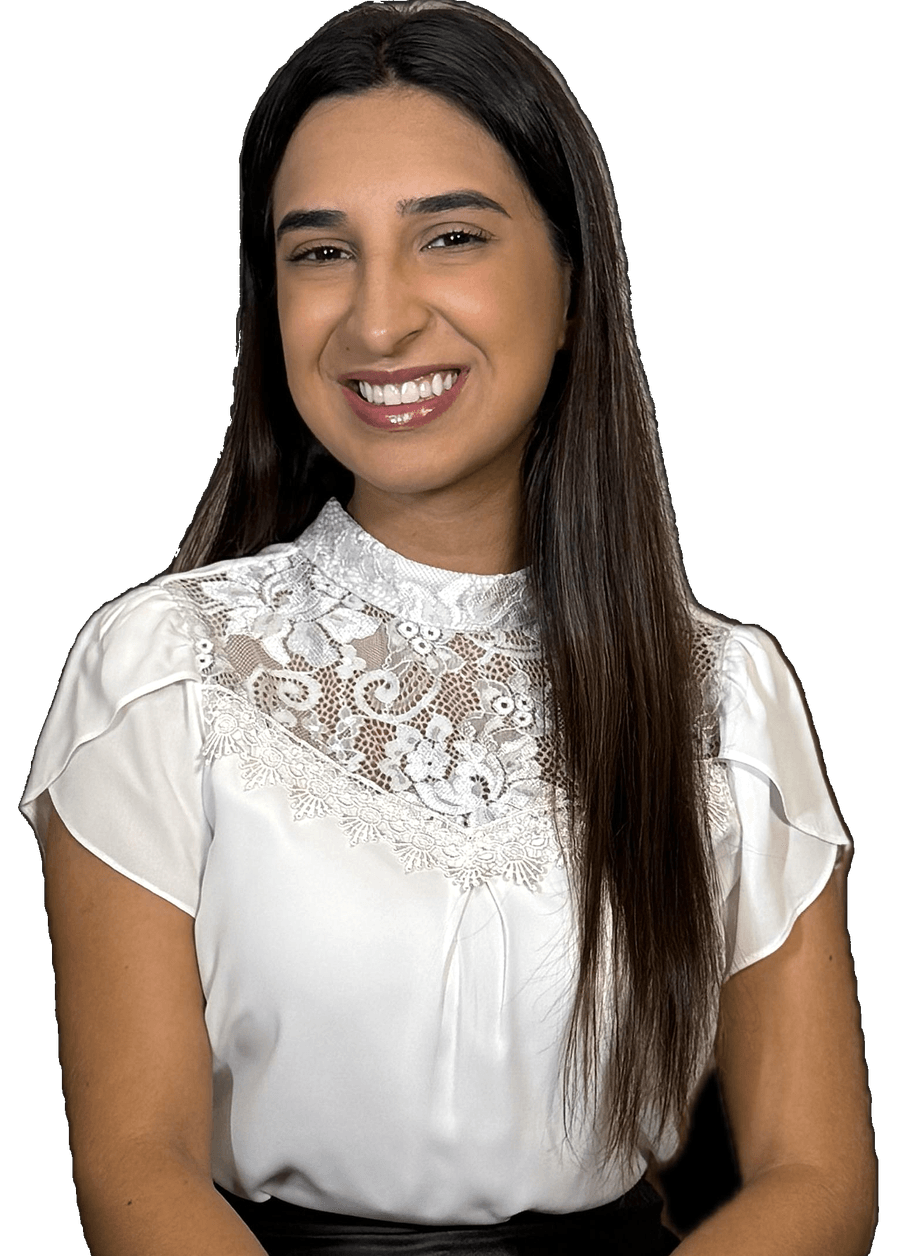
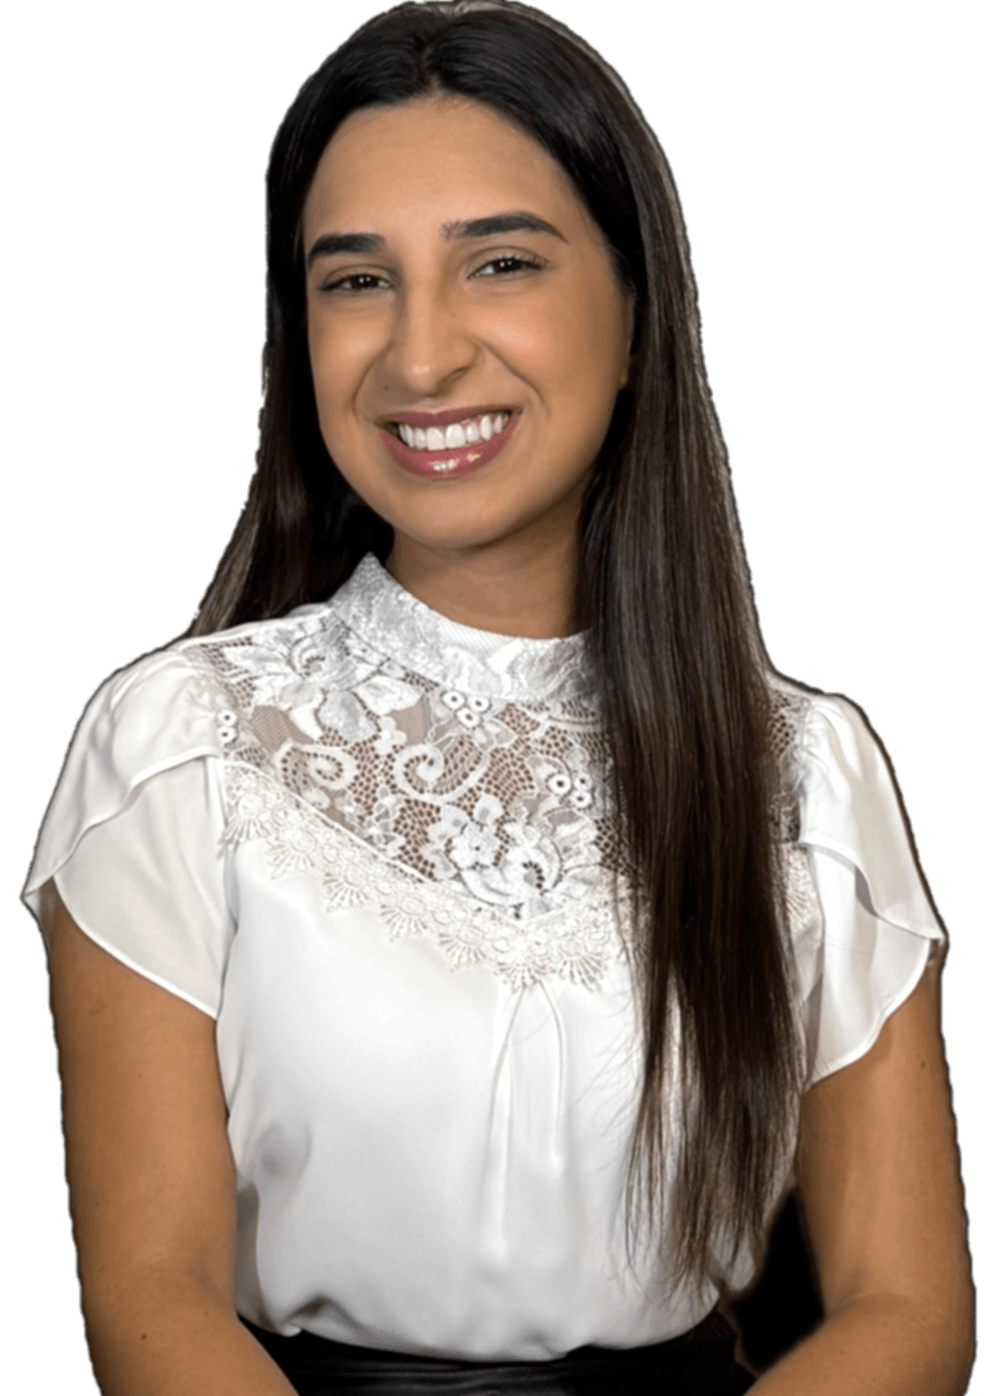
Remove crachá duplicado sobre o rosto, suaviza o recorte e o degradê
O crachá por cima da foto no mobile cobria o rosto dela e ainda se
repetia embaixo; removido, fica só uma vez, na parte com o título
(igual ao HTML do site de referência que o cliente mandou, que também
não tem legenda sobre a foto).

O recorte da foto tinha uma borda dura e artificial ("aparecendo o
recorte"). sharp() já resolve premultiplicação de alpha internamente,
então bastou aplicar um leve blur na imagem inteira (RGBA) para suavizar
a borda sem o halo escuro que uma manipulação manual de canal alfa
causava antes.

Degradê marrom clareado bastante (quase imperceptível), como pedido.

diff --git a/app/page.tsx b/app/page.tsx
@@ -30,17 +30,9 @@ export default async function HomePage() {
   return (
     <>
       {/* Hero — retrato recortado integrado a um único degradê que cobre a seção inteira (protótipo do cliente) */}
-      <section className="relative overflow-hidden lg:bg-gradient-to-br lg:from-[#faf3ea] lg:via-[#f1dfc4] lg:to-[#d9b47f]">
+      <section className="relative overflow-hidden lg:bg-gradient-to-br lg:from-[#fbf9f6] lg:via-[#f8f2ea] lg:to-[#eeddc4]">
         <div className="grid lg:grid-cols-2">
-          <div className="relative order-1 min-h-[380px] bg-gradient-to-b from-[#faf3ea] to-[#e3c9a1] sm:min-h-[460px] lg:order-2 lg:min-h-0 lg:bg-none">
-            {/* No mobile/tablet a foto vem com o crachá por cima, como um recorte no próprio degradê */}
-            <div className="absolute left-5 top-6 z-10 flex items-center gap-3 lg:hidden">
-              <span className="h-9 w-px bg-espresso/30" aria-hidden />
-              <div>
-                <p className="font-serif text-base text-espresso">Dra. Letícia Oliveira</p>
-                <p className="label-caps text-[10px]">{SITE.oab}</p>
-              </div>
-            </div>
+          <div className="relative order-1 min-h-[380px] bg-gradient-to-b from-[#fbf9f6] to-[#f1e5d2] sm:min-h-[460px] lg:order-2 lg:min-h-0 lg:bg-none">
             <Parallax speed={0.05} className="absolute inset-0">
               <Image
                 src="/leticia/home-cutout.png"
